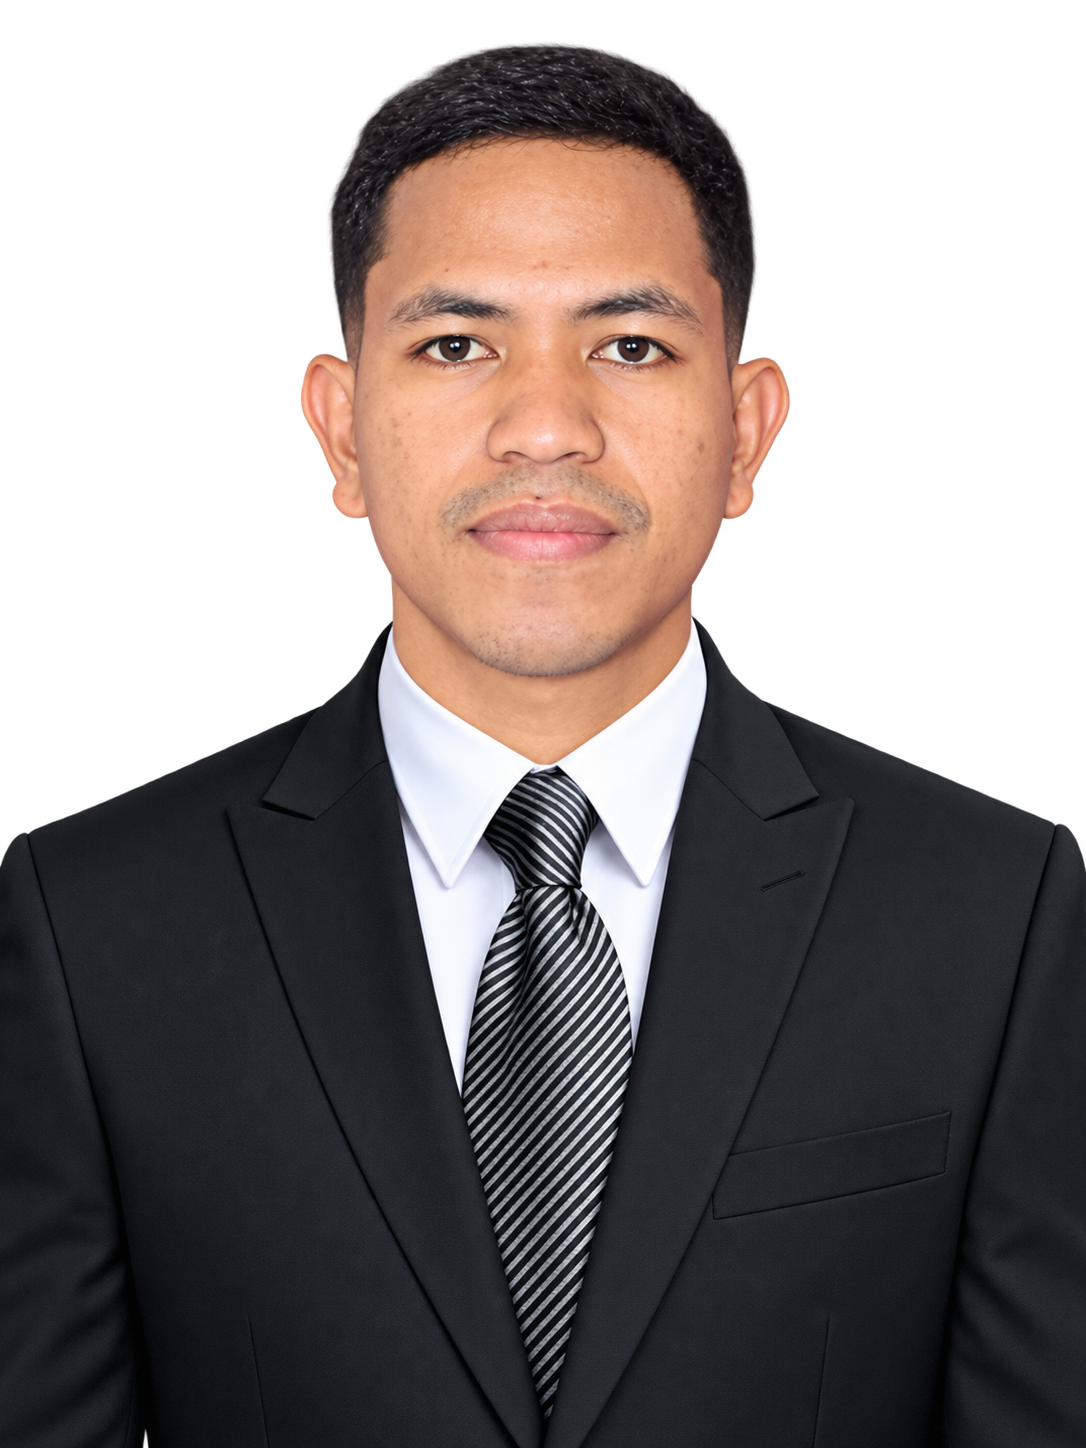
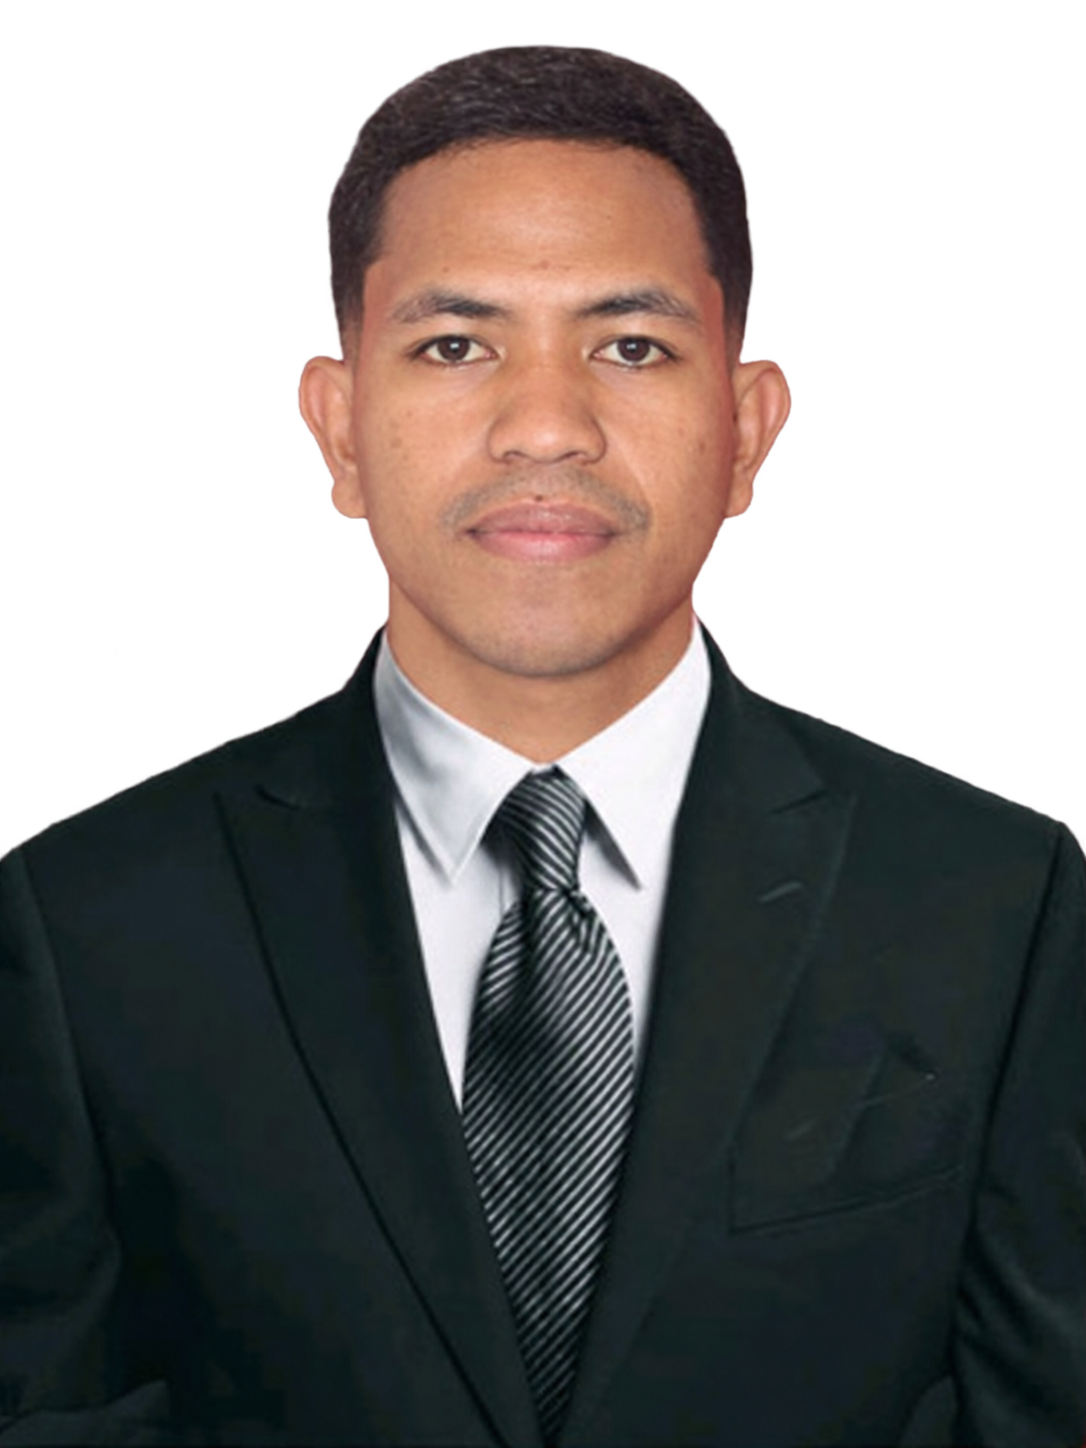
feat(hero): break-out portrait over a tonal colour field
The head is one unbroken layer that rises above the top panel; below the
chin the body shows only through seven panels in tonal ambers plus one
ink panel, so the photo's crop edges always sit inside a rounded panel.
A circular stamp (Developer, AI engineering, Dili) seals the corner.
Panels settle on load; the portrait never moves (LCP).

SkillsBadge becomes the shared CircleStamp (thread optional). Includes
the re-exported juliao_martins2.png.

diff --git a/components/sections/HeroMosaic.tsx b/components/sections/HeroMosaic.tsx
@@ -2,43 +2,71 @@
 
 import { useGSAP } from "@gsap/react";
 import Image from "next/image";
+import { useTranslations } from "next-intl";
 import { useRef, type CSSProperties } from "react";
 
+import CircleStamp from "@/components/ui/CircleStamp";
 import { gsap } from "@/motion/registry";
 import { duration, ease, heroScatter, stagger } from "@/motion/tokens";
 import portrait from "@/public/juliao_martins2.png";
 
 /**
- * Fragments of the portrait as [left, top, width, height] in % of a 3:4 frame:
- * three staggered columns with gaps between them, like the painting in the
- * reference split across canvases. Order matches `heroScatter`.
+ * The colour field behind the portrait: [left, top, width, height] in % of a
+ * 3:4 frame, plus a tone. Three staggered columns of panels, like the painting
+ * in the reference split across canvases, starting low enough that the head
+ * rises clear of them. Tones are the one amber accent at different strengths,
+ * with a single ink panel for weight. Order matches `heroScatter`.
  */
-const PIECES = [
-  [0, 14, 31, 22],
-  [0, 38, 31, 34],
-  [6, 74, 25, 16],
-  [34, 0, 32, 45],
-  [34, 47, 32, 53],
-  [69, 10, 31, 30],
-  [69, 42, 31, 36],
+const PANELS = [
+  { box: [2, 30, 29, 20], tone: "bg-signal/40" },
+  { box: [0, 52, 31, 26], tone: "bg-signal" },
+  { box: [8, 80, 23, 14], tone: "bg-foreground" },
+  { box: [34, 14, 32, 34], tone: "bg-signal/20" },
+  { box: [34, 50, 32, 50], tone: "bg-signal/70" },
+  { box: [69, 26, 29, 22], tone: "bg-signal" },
+  { box: [69, 50, 31, 30], tone: "bg-signal/40" },
 ] as const;
 
-/** Rendered width of the frame; keep in step with the max-w classes below. */
+/**
+ * Rendered width of the full-frame photo; keep in step with the max-w classes
+ * below. Every layer uses the same value, so the browser picks the same file
+ * for all of them and downloads it once.
+ */
 const SIZES = "(min-width: 1024px) 26rem, 15rem";
 
+/** The head layer stops just under the chin; below it the body is fragmented. */
+const HEAD_CLIP = "inset(0% 0% 64% 0%)";
+
+/** The photo at full-frame size, for a layer or a panel window. */
+function Photo({ preload = false }: { preload?: boolean }) {
+  return (
+    <Image
+      src={portrait}
+      alt=""
+      fill
+      sizes={SIZES}
+      placeholder="blur"
+      preload={preload}
+      loading="eager"
+      className="object-cover object-top"
+    />
+  );
+}
+
 /**
- * One photo (transparent background), shown through seven windows backed by
- * the amber signal colour — the page's single accent, here doing the job the
- * painting's colour does in the reference. Every window renders the same
- * next/image at the size of the whole frame and offsets it, so the browser
- * downloads a single file.
+ * Break-out portrait. The head is one unbroken layer that rises above the top
+ * panel — stepping out of the frame. Below the chin the body exists only
+ * inside the colour panels, fragmented like the painting in the reference, so
+ * the photo's hard crop edges are always hidden inside a rounded panel. A
+ * circular stamp seals the bottom corner.
  *
- * Motion: with full motion the pieces start a few px apart (CSS, before first
+ * Motion: with full motion the panels start a few px apart (CSS, before first
  * paint) and settle together once — the same "pieces finding their place"
- * language as the skills wall. Transform only, so the photo is visible from
- * the first frame and LCP is untouched. Reduced motion is the assembled frame.
+ * language as the skills wall. The portrait never moves: it is the LCP image
+ * and paints in place. Reduced motion and no-JS get the settled frame.
  */
 export default function HeroMosaic({ name }: { name: string }) {
+  const t = useTranslations("home");
   const rootRef = useRef<HTMLDivElement>(null);
 
   useGSAP(
@@ -50,14 +78,20 @@ export default function HeroMosaic({ name }: { name: string }) {
           reduced: "(prefers-reduced-motion: reduce)",
         },
         (context) => {
-          const { full } = context.conditions as { full: boolean; reduced: boolean };
-          const pieces = gsap.utils.toArray<HTMLElement>("[data-hero-piece]", rootRef.current);
+          const { full } = context.conditions as {
+            full: boolean;
+            reduced: boolean;
+          };
+          const panels = gsap.utils.toArray<HTMLElement>(
+            "[data-hero-piece]",
+            rootRef.current
+          );
           if (!full) {
             // The OS setting can change after the head probe ran.
-            gsap.set(pieces, { "--piece-x": "0px", "--piece-y": "0px" });
+            gsap.set(panels, { "--piece-x": "0px", "--piece-y": "0px" });
             return;
           }
-          gsap.to(pieces, {
+          gsap.to(panels, {
             "--piece-x": "0px",
             "--piece-y": "0px",
             duration: duration.xl,
@@ -79,13 +113,13 @@ export default function HeroMosaic({ name }: { name: string }) {
       aria-label={name}
       className="relative aspect-3/4 w-full max-w-60 lg:max-w-104"
     >
-      {PIECES.map(([left, top, width, height], index) => {
+      {PANELS.map(({ box: [left, top, width, height], tone }, index) => {
         const [x, y] = heroScatter[index];
         return (
           <div
             key={`${left}-${top}`}
             data-hero-piece=""
-            className="absolute overflow-hidden rounded-md bg-signal"
+            className={`absolute overflow-hidden rounded-md ${tone}`}
             style={
               {
                 left: `${left}%`,
@@ -107,20 +141,28 @@ export default function HeroMosaic({ name }: { name: string }) {
                 height: `${(100 / height) * 100}%`,
               }}
             >
-              <Image
-                src={portrait}
-                alt=""
-                fill
-                sizes={SIZES}
-                placeholder="blur"
-                preload={index === 0}
-                loading="eager"
-                className="object-cover object-top"
-              />
+              <Photo />
             </div>
           </div>
         );
       })}
+
+      {/* The head: one piece, above the field. Same frame, clipped at the chin. */}
+      <div
+        data-hero-portrait=""
+        className="absolute inset-0"
+        style={{ clipPath: HEAD_CLIP }}
+      >
+        <Photo preload />
+      </div>
+
+      <div
+        data-hero-stamp=""
+        aria-hidden="true"
+        className="absolute -bottom-6 -left-4 size-24 rounded-full bg-background p-1.5 ring-1 ring-border lg:-left-10 lg:size-28"
+      >
+        <CircleStamp text={t("stamp")} className="size-full" />
+      </div>
     </div>
   );
 }

diff --git a/components/ui/CircleStamp.tsx b/components/ui/CircleStamp.tsx
@@ -1,0 +1,51 @@
+import { useId } from "react";
+
+import { cn } from "@/lib/utils";
+
+/**
+ * A line of text set around a ring — the stamp from the artist reference.
+ * With `thread`, a line drops from the centre to a pin (the skills wall);
+ * without, it is a compact seal (the hero portrait). Static: a mark, not a
+ * moving part. Decorative, so hidden from assistive tech; nearby text carries
+ * the meaning.
+ */
+export default function CircleStamp({
+  text,
+  thread = false,
+  className,
+}: {
+  text: string;
+  thread?: boolean;
+  className?: string;
+}) {
+  const ringId = useId();
+
+  return (
+    <svg
+      viewBox={thread ? "0 0 120 200" : "0 0 120 120"}
+      aria-hidden="true"
+      focusable="false"
+      className={cn("h-auto text-foreground", className)}
+    >
+      <defs>
+        {/* Starts at 9 o'clock and runs clockwise so the text reads upright. */}
+        <path id={ringId} d="M 16 60 a 44 44 0 1 1 88 0 a 44 44 0 1 1 -88 0" />
+      </defs>
+      <text
+        fontSize="9"
+        className="fill-signal font-medium uppercase"
+        textLength="274"
+        lengthAdjust="spacingAndGlyphs"
+      >
+        <textPath href={`#${ringId}`}>{text}</textPath>
+      </text>
+      <circle cx="60" cy="60" r="2.5" className="fill-current" />
+      {thread && (
+        <>
+          <line x1="60" y1="60" x2="60" y2="186" stroke="currentColor" strokeWidth="1" />
+          <circle cx="60" cy="188" r="3" className="fill-current" />
+        </>
+      )}
+    </svg>
+  );
+}

diff --git a/components/sections/Skills.tsx b/components/sections/Skills.tsx
@@ -10,7 +10,7 @@ import { cn } from "@/lib/utils";
 import { gsap, ScrollTrigger } from "@/motion/registry";
 import { duration, ease, offset, stagger } from "@/motion/tokens";
 
-import SkillsBadge from "./SkillsBadge";
+import CircleStamp from "@/components/ui/CircleStamp";
 
 const HIDDEN_CLIP = "inset(100% 0% 0% 0%)";
 const SHOWN_CLIP = "inset(0% 0% 0% 0%)";
@@ -155,7 +155,7 @@ export default function Skills() {
               {t("countCaption")}
             </span>
           </p>
-          <SkillsBadge text={t("badge")} />
+          <CircleStamp text={t("badge")} thread className="w-28" />
           <p className="max-w-56 text-h2 font-semibold">
             {t("statementLead")}{" "}
             <span className="text-signal">{t("statementAccent")}</span>
